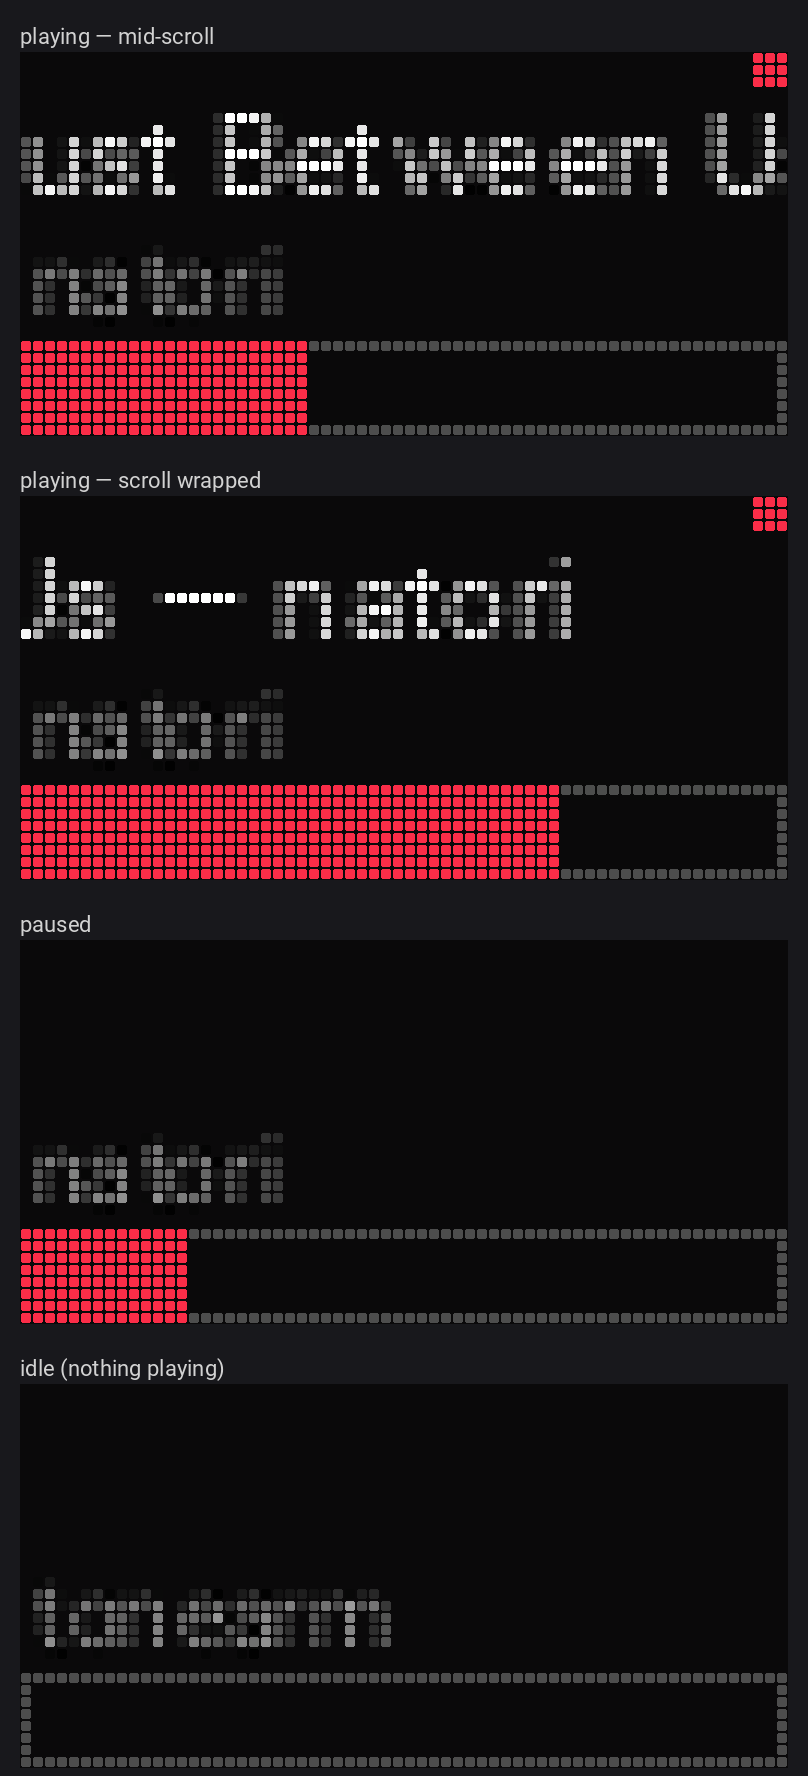
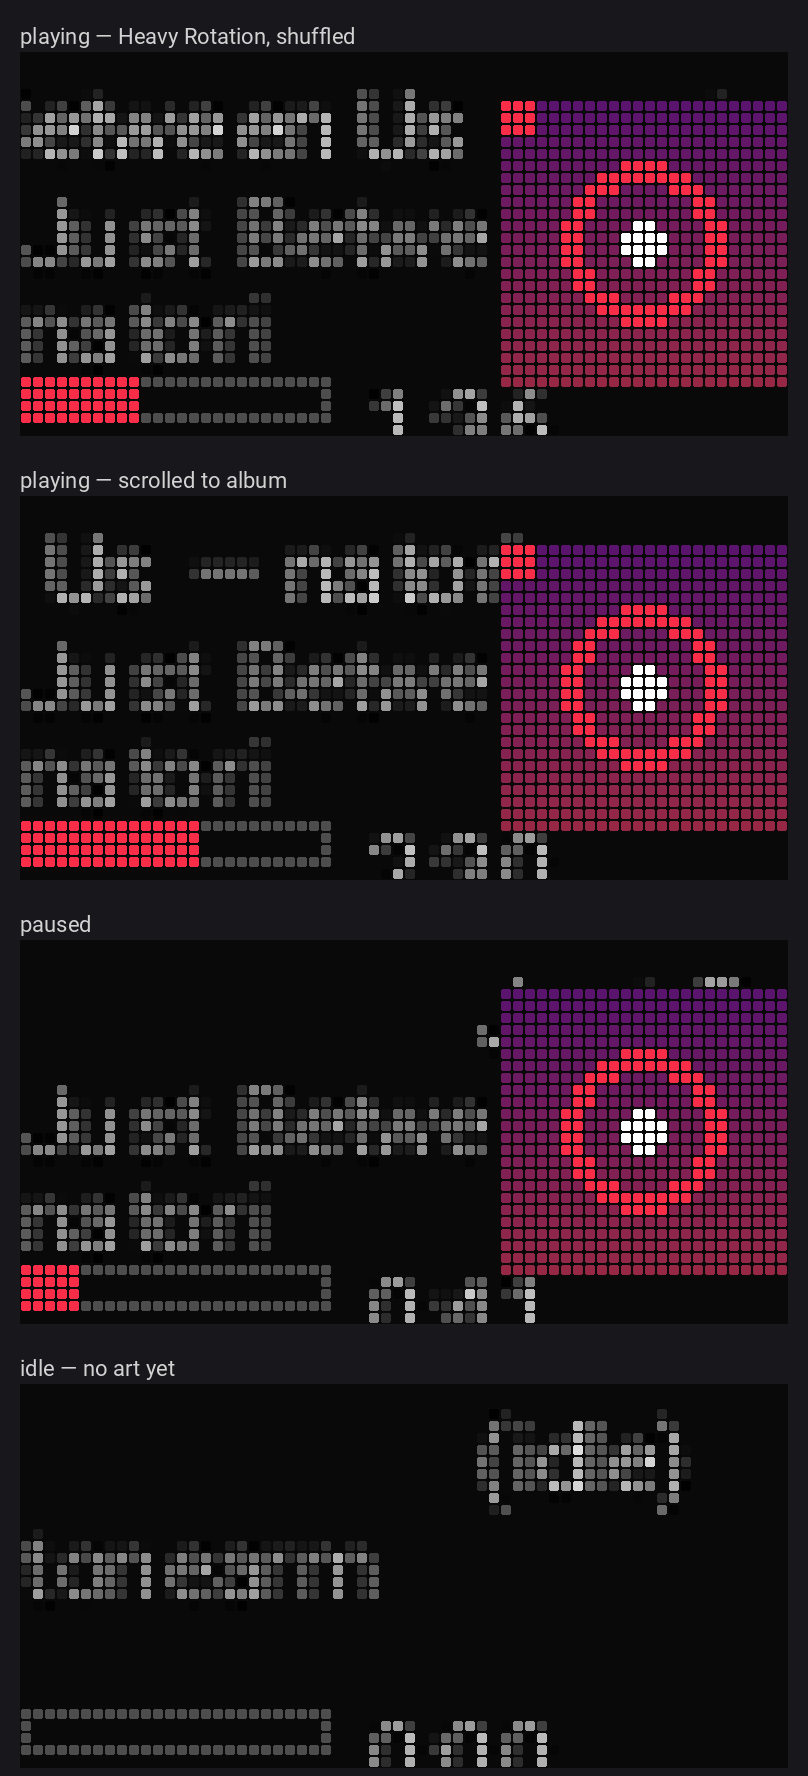
docs: update Tidbyt mockup to the CarPlay-style album-art layout

diff --git a/scripts/render_tidbyt_mockup.py b/scripts/render_tidbyt_mockup.py
@@ -1,47 +1,54 @@
 #!/usr/bin/env python3
-"""Render exactly what the Tidbyt Gen 2's 64x32 matrix shows, from the
-same layout math as the ESPHome display lambda: scrolling title (top),
-artist (middle), playhead bar (bottom), playing dot (top-right)."""
+"""Render the CarPlay-style layout: art right (24x24), text stack left,
+progress bar + elapsed under it. Same math as the ESPHome display lambda."""
 
 from PIL import Image, ImageDraw, ImageFont
 
 W, H = 64, 32
-SCALE = 12           # px per LED in the output
-DOT = SCALE - 2      # LED dot size (2px black gap = the matrix grid look)
+SCALE = 12
+DOT = SCALE - 2
 
-accent = (250, 45, 72)     # tonearm red
+accent = (250, 45, 72)
 dim = (77, 77, 77)
 white = (255, 255, 255)
-off = (18, 16, 18)
 
-font_title = ImageFont.truetype("/tmp/roboto.ttf", 10)
-font_artist = ImageFont.truetype("/tmp/roboto.ttf", 8)
+font8 = ImageFont.truetype("/tmp/roboto.ttf", 8)
 
-def frame(title, artist, elapsed, duration, playing, ms):
-    """One 64x32 logical frame, upscaled with LED dots."""
+def frame(title, album, artist, elapsed, duration, playing, has_art, ms):
     img = Image.new("RGB", (W, H), (0, 0, 0))
     d = ImageDraw.Draw(img)
 
-    # title: horizontal pixel-scroll, loops (millis()/60 % span) — drawn
-    # with top-left anchor at y=1 like the firmware's it.printf(x, 1, ...)
-    tw = d.textlength(title, font=font_title)
-    span = tw + W + 10
-    offset = (ms // 60) % span
-    x = W - offset
-    d.text((x, 1), title, font=font_title, fill=white)
-    # artist (middle row), top-left anchor at y=13
-    if artist:
-        d.text((1, 13), artist, font=font_artist, fill=(180, 180, 180))
-    # playhead bar (bottom 8 rows): outline + fill = fraction played
+    # ── left column (0-38): text stack ──
+    tw = d.textlength(title, font=font8)
+    span = tw + 38
+    off = (ms // 60) % span
+    x = 38 - off
+    d.text((x, 0), title, font=font8, fill=white)
+    d.text((0, 9), album, font=font8, fill=(200, 200, 200))
+    d.text((0, 17), artist, font=font8, fill=(200, 200, 200))
+    # bar + time
     frac = elapsed / duration if duration else 0.0
-    d.rectangle((0, 24, W - 1, 31), outline=dim, width=1)
-    if int(frac * W) > 0:
-        d.rectangle((0, 24, int(frac * W), 31), fill=accent)
-    # playing dot, top-right
-    if playing:
-        d.rectangle((W - 3, 0, W - 1, 2), fill=accent)
+    d.rectangle((0, 27, 25, 30), outline=dim, width=1)
+    if int(frac * 26) > 0:
+        d.rectangle((0, 27, int(frac * 26), 30), fill=accent)
+    secs = int(elapsed / 1000)
+    d.text((29, 25), f"{secs // 60}:{secs % 60:02d}", font=font8, fill=white)
 
-    # upscale to LED-grid: each logical px -> a rounded dot
+    # ── right column (40-63): album art ──
+    if has_art:
+        # pretend art: a 24x24 gradient square with a vinyl-circle
+        art = Image.new("RGB", (24, 24), (0, 0, 0))
+        ad = ImageDraw.Draw(art)
+        for yy in range(24):
+            t = yy / 23.0
+            ad.line((0, yy, 23, yy), fill=(int(90 + t * 60), int(20 + t * 20), int(110 - t * 40)))
+        ad.ellipse((5, 5, 18, 18), outline=(250, 45, 72), width=2)
+        ad.ellipse((10, 10, 13, 13), fill=white)
+        img.paste(art, (40, 4))
+        if playing:
+            d.rectangle((40, 4, 42, 6), fill=accent)
+
+    # upscale to LED grid
     out = Image.new("RGB", (W * SCALE, H * SCALE), (10, 9, 10))
     od = ImageDraw.Draw(out)
     for yy in range(H):
@@ -50,27 +57,25 @@ def frame(title, artist, elapsed, duration, playing, ms):
             if c == (0, 0, 0):
                 continue
             x0, y0 = xx * SCALE + 1, yy * SCALE + 1
-            od.rounded_rectangle((x0, y0, x0 + DOT - 1, y0 + DOT - 1),
-                                 radius=2, fill=c)
+            od.rounded_rectangle((x0, y0, x0 + DOT - 1, y0 + DOT - 1), radius=2, fill=c)
     return out
 
 frames = [
-    ("playing — mid-scroll", frame("Just Between Us — natori", "natori",
-                                   96000, 260000, True, 4200)),
-    ("playing — scroll wrapped", frame("Just Between Us — natori", "natori",
-                                   180000, 260000, True, 7800)),
-    ("paused", frame("Overdose", "natori", 41000, 197094, False, 0)),
-    ("idle (nothing playing)", frame("(idle)", "tonearm", 0, 0, False, 0)),
+    ("playing — Heavy Rotation, shuffled", "Just Between Us — natori", "Just Between Us",
+     "natori", 96000, 260000, True, True, 3600),
+    ("playing — scrolled to album", "Just Between Us — natori", "Just Between Us",
+     "natori", 150000, 260000, True, True, 5200),
+    ("paused", "Just Between Us — natori", "Just Between Us",
+     "natori", 41000, 260000, False, True, 0),
+    ("idle — no art yet", "(idle)", "tonearm", "", 0, 0, False, False, 0),
 ]
 
-sheet = Image.new("RGB", (W * SCALE + 40, (H * SCALE + 60) * len(frames)),
-                  (24, 24, 28))
+sheet = Image.new("RGB", (W * SCALE + 40, (H * SCALE + 60) * len(frames)), (24, 24, 28))
 d = ImageDraw.Draw(sheet)
 y = 20
-for label, im in frames:
-    d.text((20, y), label, font=ImageFont.truetype("/tmp/roboto.ttf", 22),
-           fill=(210, 210, 210))
-    sheet.paste(im, (20, y + 32))
+for label, title, album, artist, el, dur, playing, art, ms in frames:
+    d.text((20, y), label, font=ImageFont.truetype("/tmp/roboto.ttf", 22), fill=(210, 210, 210))
+    sheet.paste(frame(title, album, artist, el, dur, playing, art, ms), (20, y + 32))
     y += H * SCALE + 60
 sheet.save("/home/inferenceport/tidbyt-mockup.png")
-print("saved /home/inferenceport/tidbyt-mockup.png", sheet.size)
+print("saved", sheet.size)
